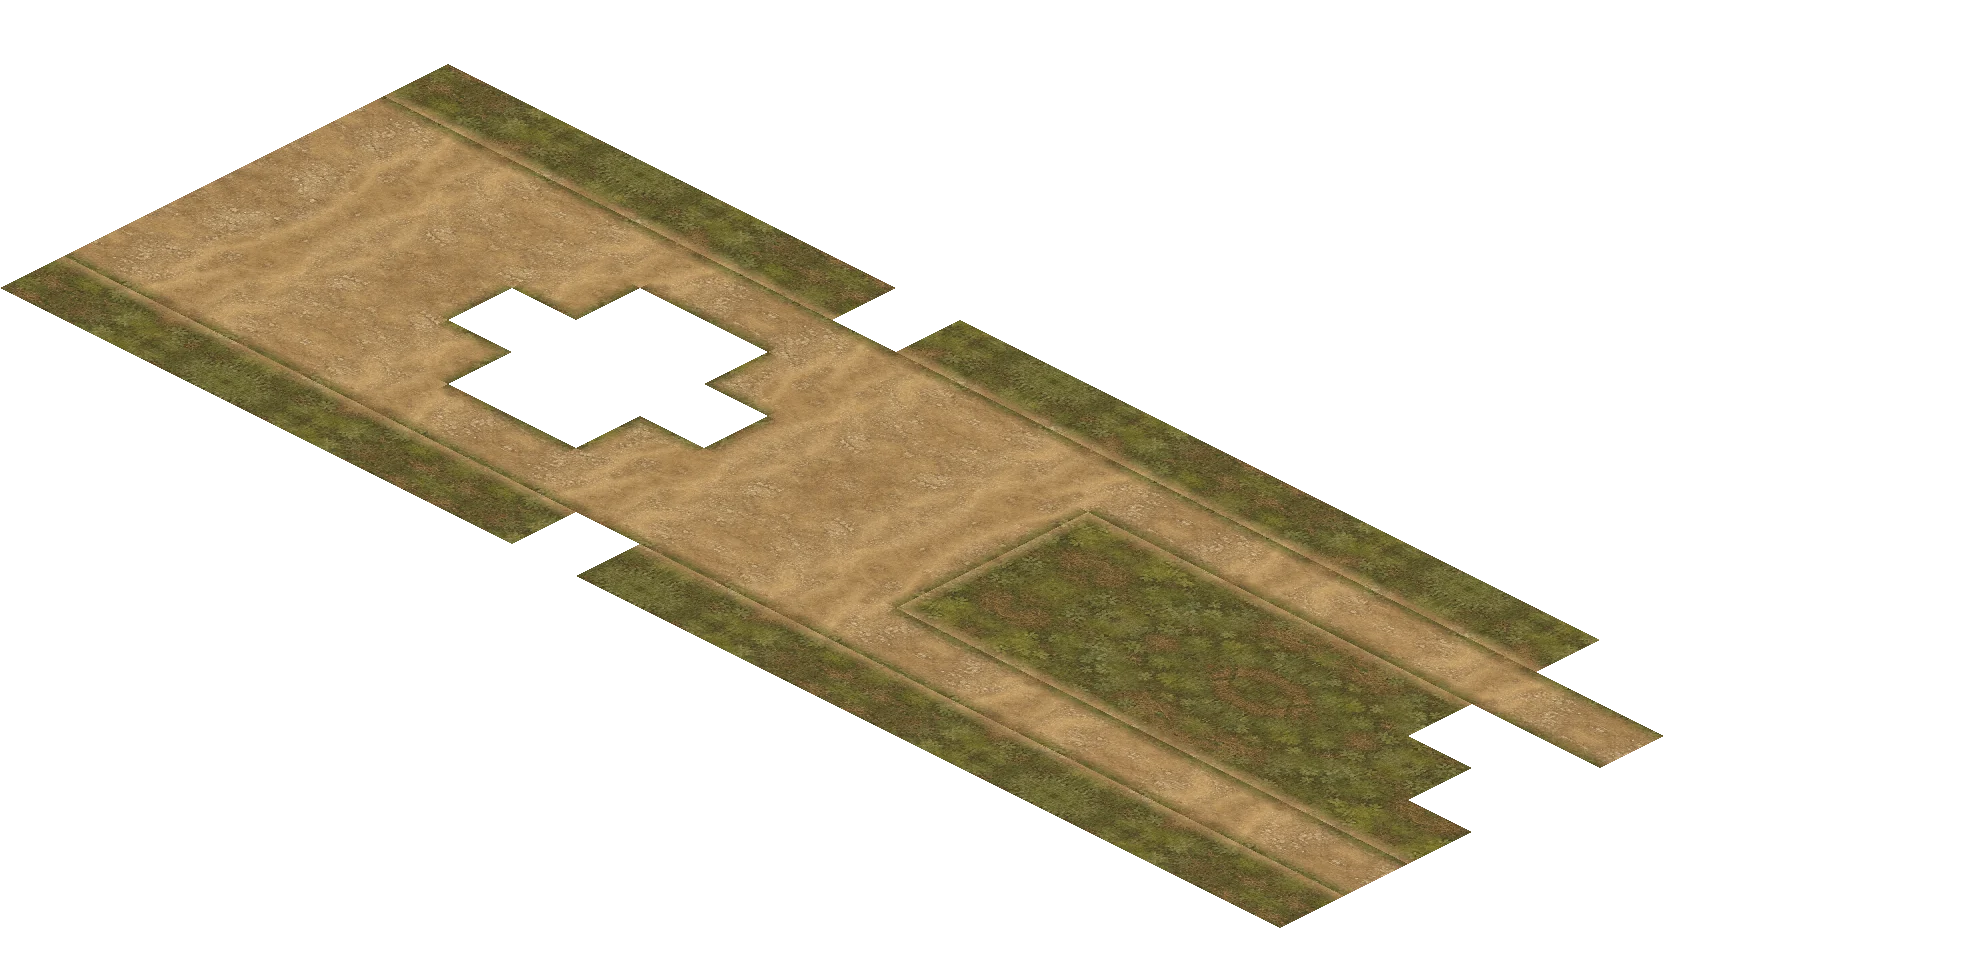
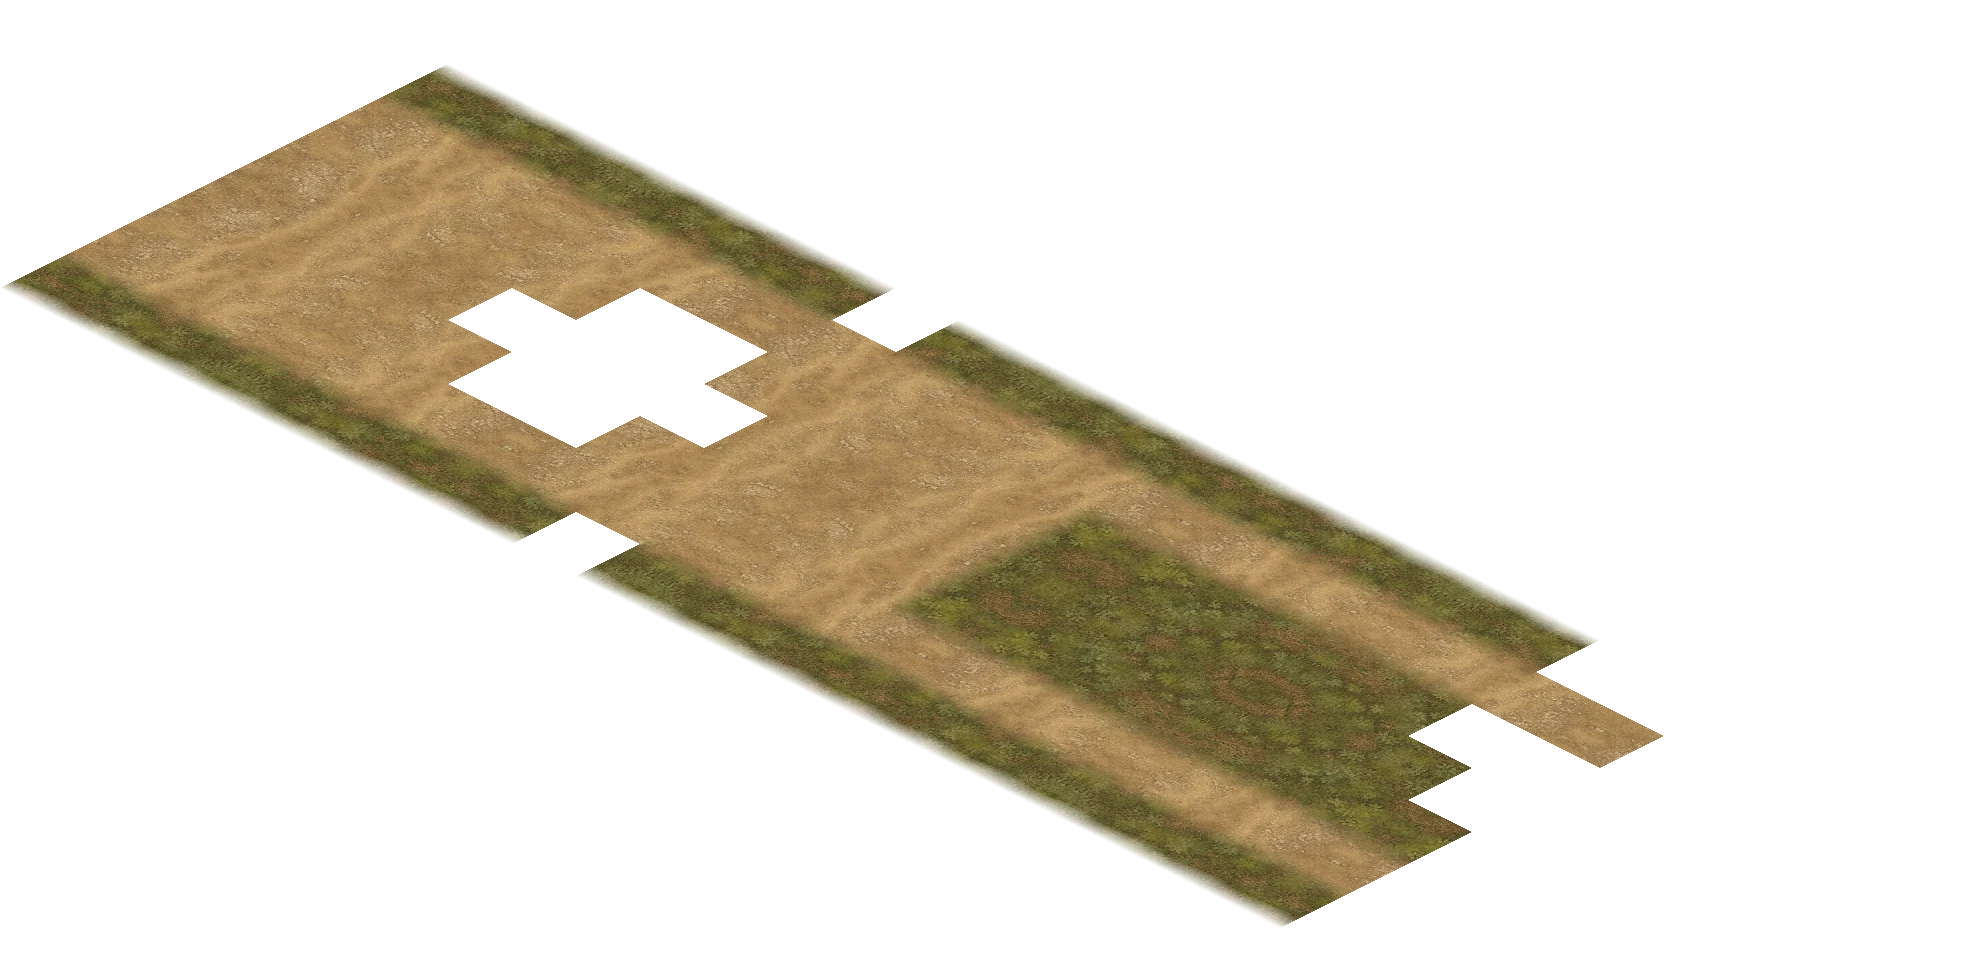
Feather modular forest route margins

diff --git a/scripts/art/forest-route-ground.ts b/scripts/art/forest-route-ground.ts
@@ -20,6 +20,9 @@ function sample(value: number): number {
 function material(key: string): number {
   return key === '=' ? 0 : 1;
 }
+function clamp(value: number): number {
+  return Math.max(0, Math.min(1, value));
+}
 function colour(kind: number, x: number, y: number) {
   const sx = sample(x * 192) + (kind % 2) * swatch;
   const sy = sample(y * 192) + Math.floor(kind / 2) * swatch;
@@ -49,18 +52,29 @@ for (let py = 0; py < image.height; py++) {
       [0, 1],
     ] as const) {
       const neighbour = FOREST_ROAD.rows[iy + oy]?.[ix + ox];
-      if (!neighbour || material(neighbour) === base) continue;
+      // Only mix across the walkable road/shoulder boundary. A pond, ledge or
+      // prop stays transparent, so runtime water and independent scenery retain
+      // their real footprint.
+      if ((neighbour !== '=' && neighbour !== ',') || material(neighbour) === base) continue;
       const edgeDistance = ox < 0 ? x - ix : ox > 0 ? ix + 1 - x : oy < 0 ? y - iy : iy + 1 - y;
-      mix = Math.max(mix, Math.max(0, Math.min(1, (0.2 - edgeDistance) / 0.2)));
+      const width = 0.16 + 0.03 * (0.5 + 0.5 * Math.sin(ix * 4.1 + iy * 6.7));
+      // Both materials meet at the same 50/50 midpoint. This avoids a full
+      // opposite-colour stripe on either side of the join.
+      mix = Math.max(mix, 0.5 * clamp((width - edgeDistance) / width));
     }
     const other = base === 0 ? 1 : 0;
     const a = colour(base, x, y),
       b = colour(other, x, y);
+    // The grass shoulders fade into the procedural field over a modest,
+    // deterministic width. The central road rows stay fully opaque.
+    const outerDistance = Math.min(y - 3, 10 - y);
+    const featherWidth = 0.26 + 0.06 * (0.5 + 0.5 * Math.sin(x * 5.9 + y * 3.7));
+    const alpha = key === ',' ? Math.round(255 * clamp(outerDistance / featherWidth)) : 255;
     setPixel(image, px, py, [
       Math.round(a[0] * (1 - mix) + b[0] * mix),
       Math.round(a[1] * (1 - mix) + b[1] * mix),
       Math.round(a[2] * (1 - mix) + b[2] * mix),
-      255,
+      alpha,
     ]);
   }
 }
